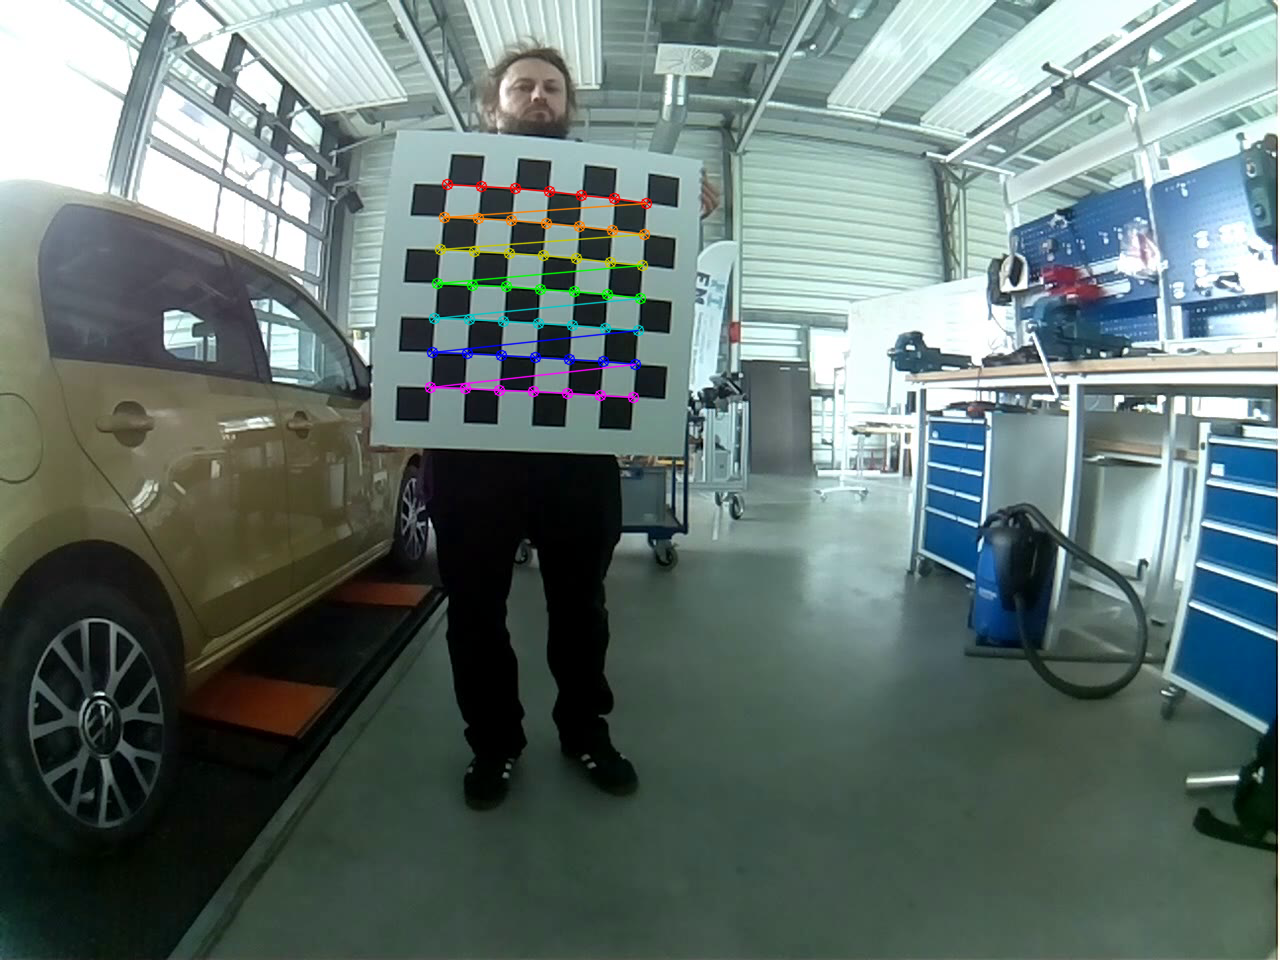
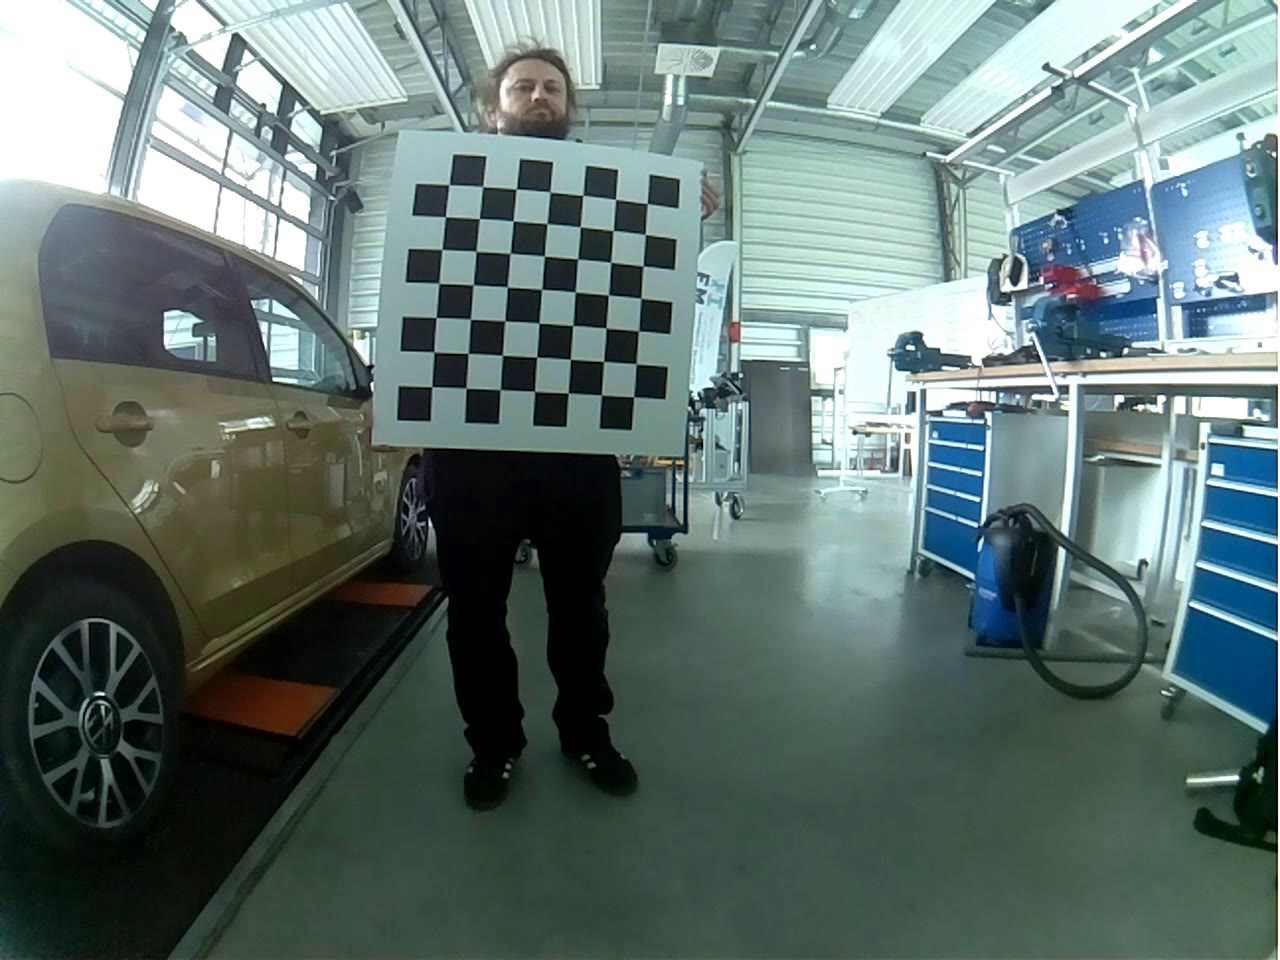
Trying :(

Changed region(s): [[0.2812, 0.1562, 0.5312, 0.4375]]

diff --git a/part1_2.py b/part1_2.py
@@ -19,12 +19,27 @@ for i in range(60):
     if ret:
         frames.append(frame)
 
+frames = list()
+frame_count = 0
+succes = True
+while succes:
+    video.set(cv.CAP_PROP_POS_FRAMES, frame_count)
+    succes, frame = video.read()
+    
+    if(succes == False):
+        continue
+    if(frame_count % 7 == 0):
+        frames.append(frame)
+
+    frame_count = frame_count + 1
+
+print("Number of Frames: ", len(frames))
 
 # termination criteria
 criteria = (cv.TERM_CRITERIA_EPS + cv.TERM_CRITERIA_MAX_ITER, 30, 0.001)
-# prepare object points, like (0,0,0), (1,0,0), (2,0,0) ....,(6,5,0)
-objp = np.zeros((6*7,3), np.float32)
-objp[:,:2] = np.mgrid[0:7,0:6].T.reshape(-1,2)
+# prepare object points, like (0,0,0), (1,0,0), (2,0,0) ....,(6,6,0)
+objp = np.zeros((7*7,3), np.float32)
+objp[:,:2] = np.mgrid[0:7,0:7].T.reshape(-1,2)
 # Arrays to store object points and image points from all the images.
 objpoints = [] # 3d point in real world space
 imgpoints = [] # 2d points in image plane.
@@ -33,16 +48,18 @@ for frame in frames:
     img = frame
     gray = cv.cvtColor(img, cv.COLOR_BGR2GRAY)
     # Find the chess board corners
-    ret, corners = cv.findChessboardCorners(gray, (7,6), None)
+    ret, corners = cv.findChessboardCorners(gray, (7,7), None)
     # If found, add object points, image points (after refining them)
     if ret == True:
-        objpoints.append(objp)
-        corners2 = cv.cornerSubPix(gray,corners, (11,11), (-1,-1), criteria)
-        imgpoints.append(corners2)
-        # Draw and display the corners
-        cv.drawChessboardCorners(img, (7,6), corners2, ret)
-        cv.imshow('img', img)
-        cv.waitKey(500)
+        # the 0 0 point should be above the 0 1 point and left to point 1 1
+        if corners[0][0][1] < corners[7][0][1] and corners[0][0][0] < corners[8][0][0]:
+            objpoints.append(objp)
+            corners2 = cv.cornerSubPix(gray,corners, (11,11), (-1,-1), criteria)
+            imgpoints.append(corners2)
+            # Draw and display the corners
+            #cv.drawChessboardCorners(img, (7,7), corners2, ret)
+            #cv.imshow('img', img)
+            #cv.waitKey(500)
 cv.destroyAllWindows()
 
 ret, mtx, dist, rvecs, tvecs = cv.calibrateCamera(objpoints, imgpoints, gray.shape[::-1], None, None)
